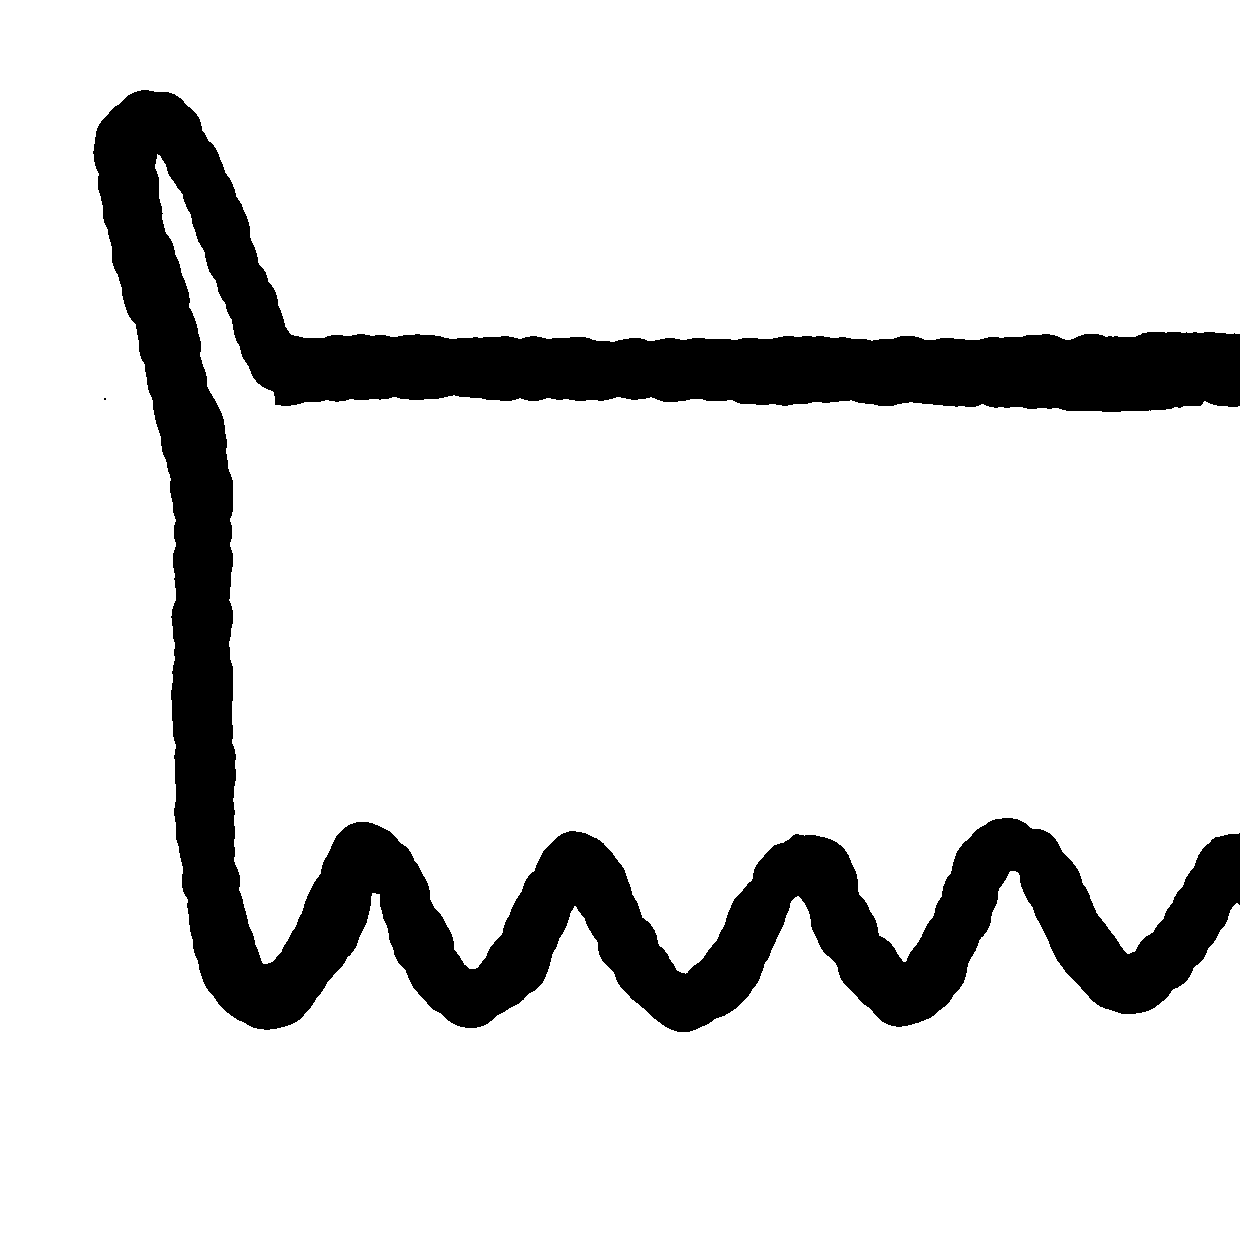
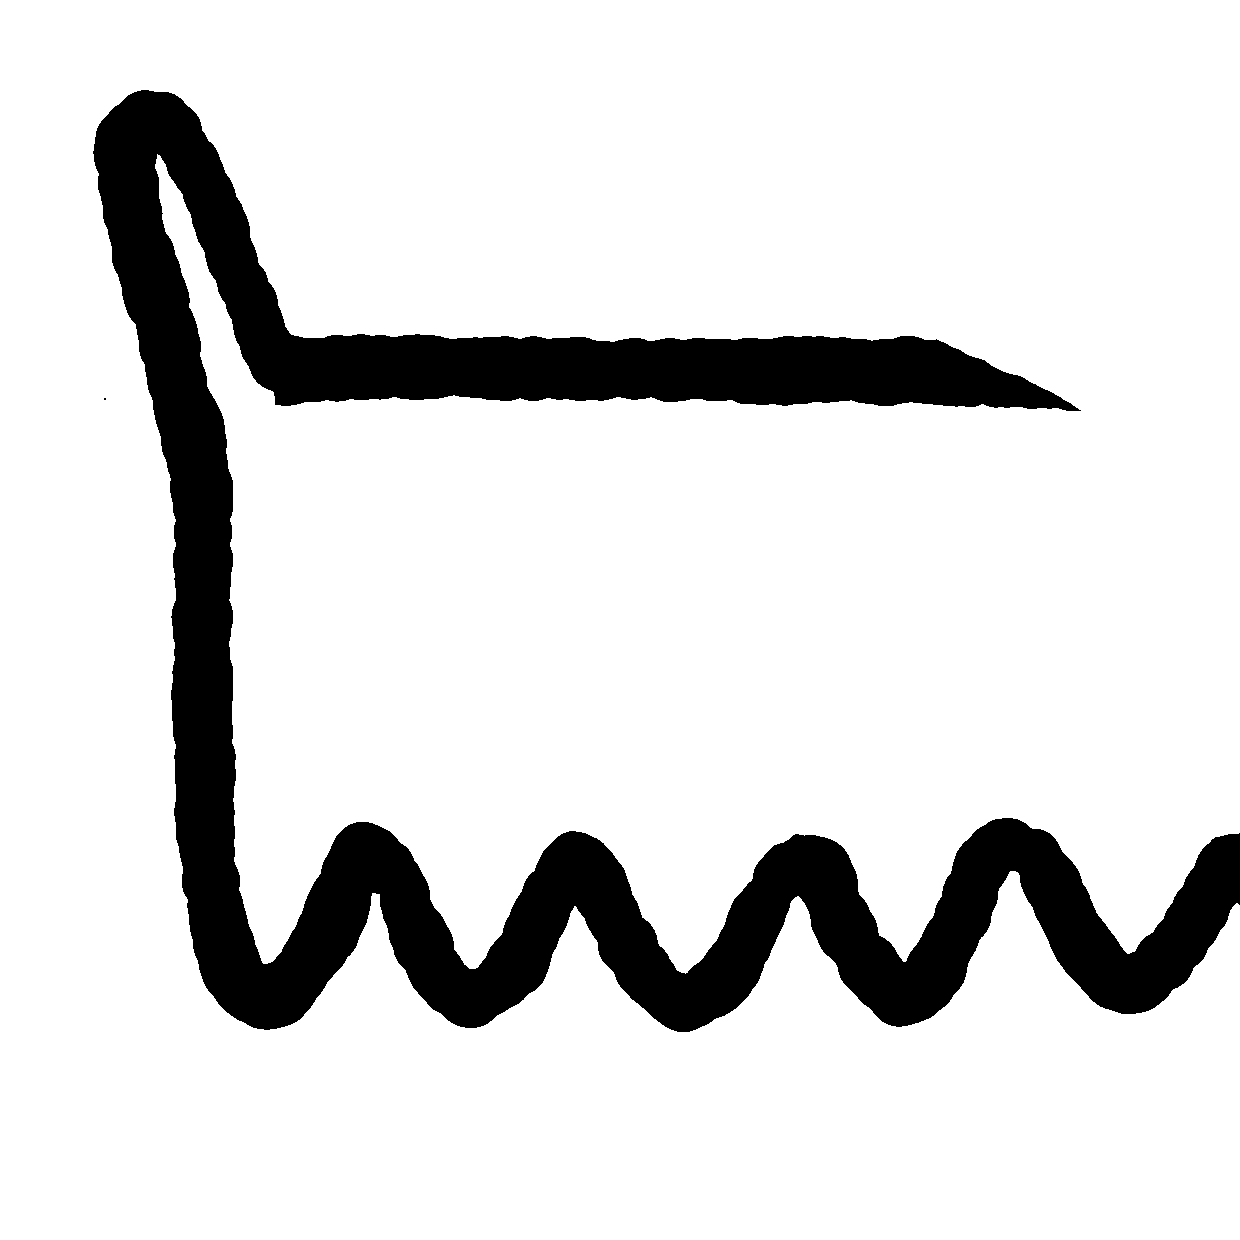
線の延長としっぽ画像削り

Changed region(s): [[0.7661, 0.2452, 1.0, 0.3371]]

diff --git a/game.js b/game.js
@@ -277,7 +277,13 @@ function drawCatBody(ctx, parts, camX) {
   // --- 背中ライン（白＋黒） ---
   if (samples.length >= 2) {
     const backOffset = PART_H * 0.20;
-    const lineExtendPx = 8;
+    const lineExtendTail = 8;
+    // 頭と隣パーツのY差が大きいほど頭側の延長を伸ばす
+    const headPart = parts[parts.length - 1];
+    const neckPart = parts[parts.length - 2];
+    const yGap = Math.abs(headPart.y - neckPart.y);
+    const lineExtendHead = 8 + yGap * 0.25;
+    if (yGap > 0) console.log('yGap:', yGap, 'lineExtendHead:', lineExtendHead, 'samples:', samples.length);
 
     // 白ライン
     const whiteBackOffset = backOffset - PART_H * 0.04;
@@ -285,8 +291,8 @@ function drawCatBody(ctx, parts, camX) {
     ctx.beginPath();
     {
       const s0 = samples[0];
-      const bx0 = (s0.x - camX) + s0.sinA * whiteBackOffset - s0.cosA * lineExtendPx;
-      const by0 = s0.y - s0.cosA * whiteBackOffset - s0.sinA * lineExtendPx;
+      const bx0 = (s0.x - camX) + s0.sinA * whiteBackOffset - s0.cosA * lineExtendTail;
+      const by0 = s0.y - s0.cosA * whiteBackOffset - s0.sinA * lineExtendTail;
       ctx.moveTo(bx0, by0);
     }
     for (let i = 0; i < samples.length - 2; i++) {
@@ -296,8 +302,8 @@ function drawCatBody(ctx, parts, camX) {
     }
     {
       const sN = samples[samples.length - 2];
-      const bxN = (sN.x - camX) + sN.sinA * whiteBackOffset + sN.cosA * lineExtendPx;
-      const byN = sN.y - sN.cosA * whiteBackOffset + sN.sinA * lineExtendPx;
+      const bxN = (sN.x - camX) + sN.sinA * whiteBackOffset + sN.cosA * lineExtendHead;
+      const byN = sN.y - sN.cosA * whiteBackOffset + sN.sinA * lineExtendHead;
       ctx.lineTo(bxN, byN);
     }
     ctx.strokeStyle = 'white';
@@ -312,8 +318,8 @@ function drawCatBody(ctx, parts, camX) {
     ctx.beginPath();
     {
       const s0 = samples[0];
-      const bx0 = (s0.x - camX) + s0.sinA * backOffset - s0.cosA * lineExtendPx;
-      const by0 = s0.y - s0.cosA * backOffset - s0.sinA * lineExtendPx;
+      const bx0 = (s0.x - camX) + s0.sinA * backOffset - s0.cosA * lineExtendTail;
+      const by0 = s0.y - s0.cosA * backOffset - s0.sinA * lineExtendTail;
       ctx.moveTo(bx0, by0);
     }
     for (let i = 0; i < samples.length - 2; i++) {
@@ -323,8 +329,8 @@ function drawCatBody(ctx, parts, camX) {
     }
     {
       const sN = samples[samples.length - 2];
-      const bxN = (sN.x - camX) + sN.sinA * backOffset + sN.cosA * lineExtendPx;
-      const byN = sN.y - sN.cosA * backOffset + sN.sinA * lineExtendPx;
+      const bxN = (sN.x - camX) + sN.sinA * backOffset + sN.cosA * lineExtendHead;
+      const byN = sN.y - sN.cosA * backOffset + sN.sinA * lineExtendHead;
       ctx.lineTo(bxN, byN);
     }
     ctx.strokeStyle = 'black';
